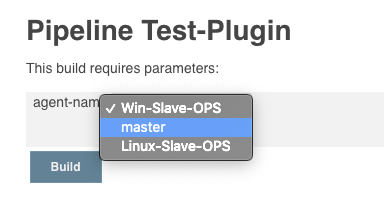
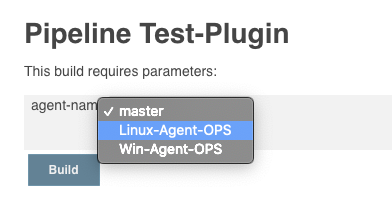
use agent

Changed region(s): [[0.0625, 0.4098, 0.6875, 0.9073], [0.0625, 0.0878, 0.7812, 0.2341], [0.0625, 0.2927, 0.5625, 0.3805]]

diff --git a/src/test/java/com/bluersw/AgentParameterDefinitionTest.java b/src/test/java/com/bluersw/AgentParameterDefinitionTest.java
@@ -17,10 +17,10 @@ public class AgentParameterDefinitionTest {
 
 	@Test
 	public void testScriptedPipeline() throws Exception{
-		AgentParameterDefinition slaveParam = new AgentParameterDefinition(NAME, DEFAULT_VALUE);
+		AgentParameterDefinition agentParam = new AgentParameterDefinition(NAME, DEFAULT_VALUE);
 
 		WorkflowJob job = jenkins.createProject(WorkflowJob.class, "test-scripted-pipeline");
-		job.addProperty(new ParametersDefinitionProperty(slaveParam));
+		job.addProperty(new ParametersDefinitionProperty(agentParam));
 		String pipelineScript
 				= "node {\n"
 				+ "  print params['agent'] \n"
